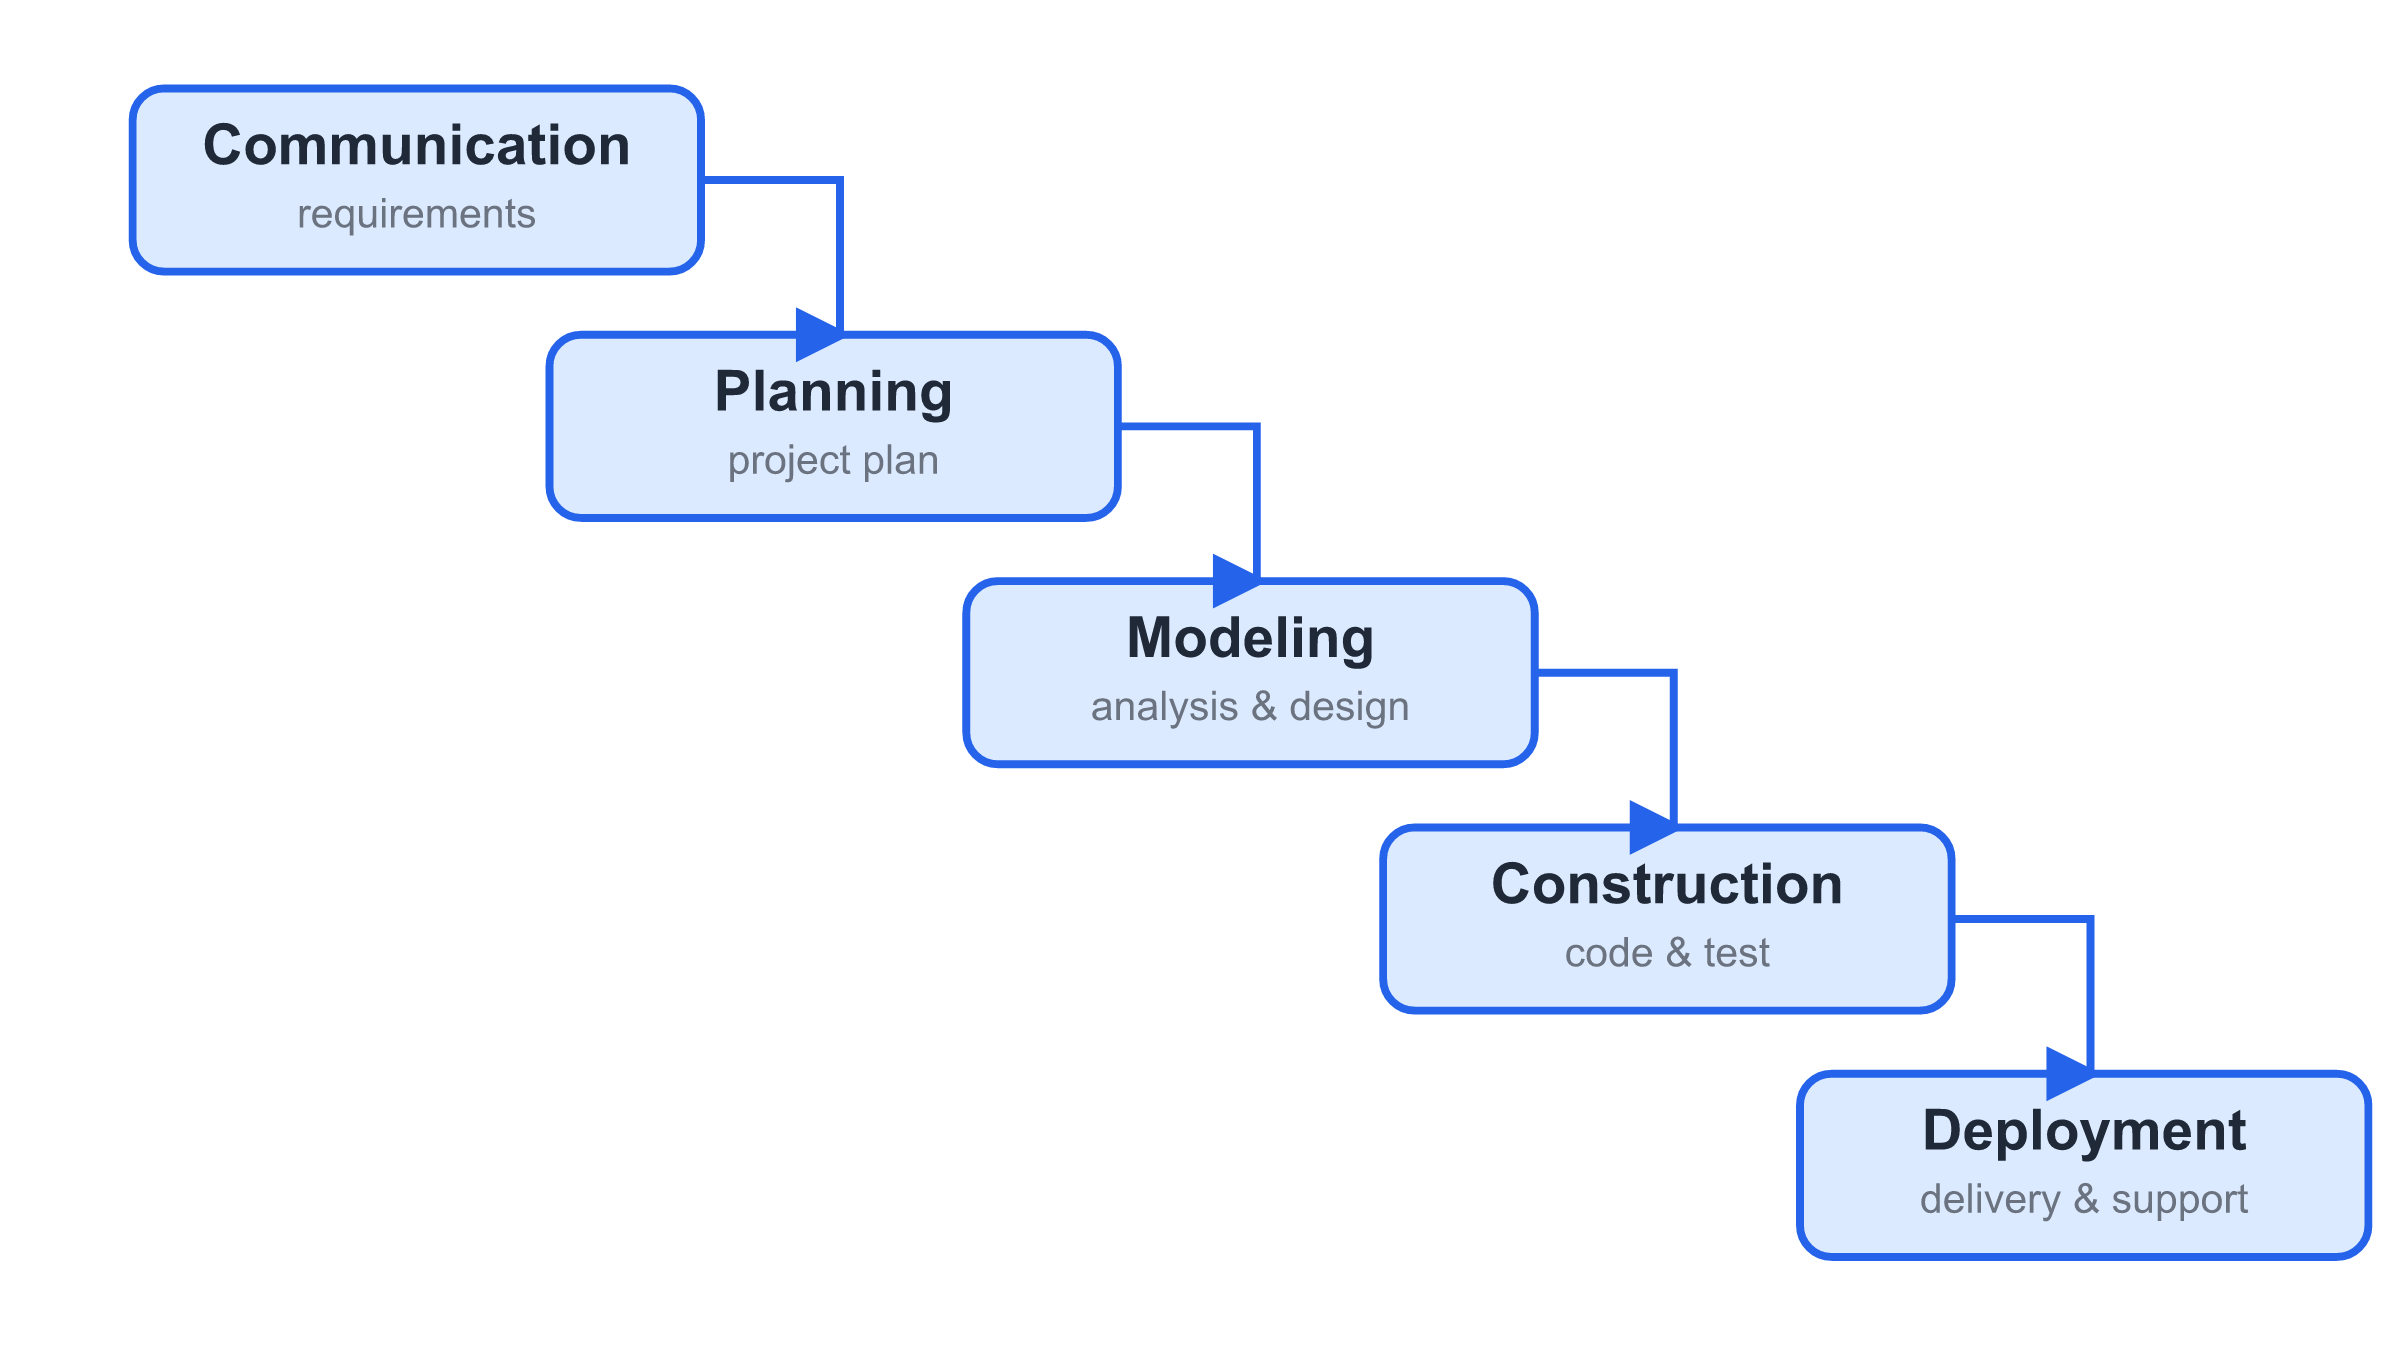
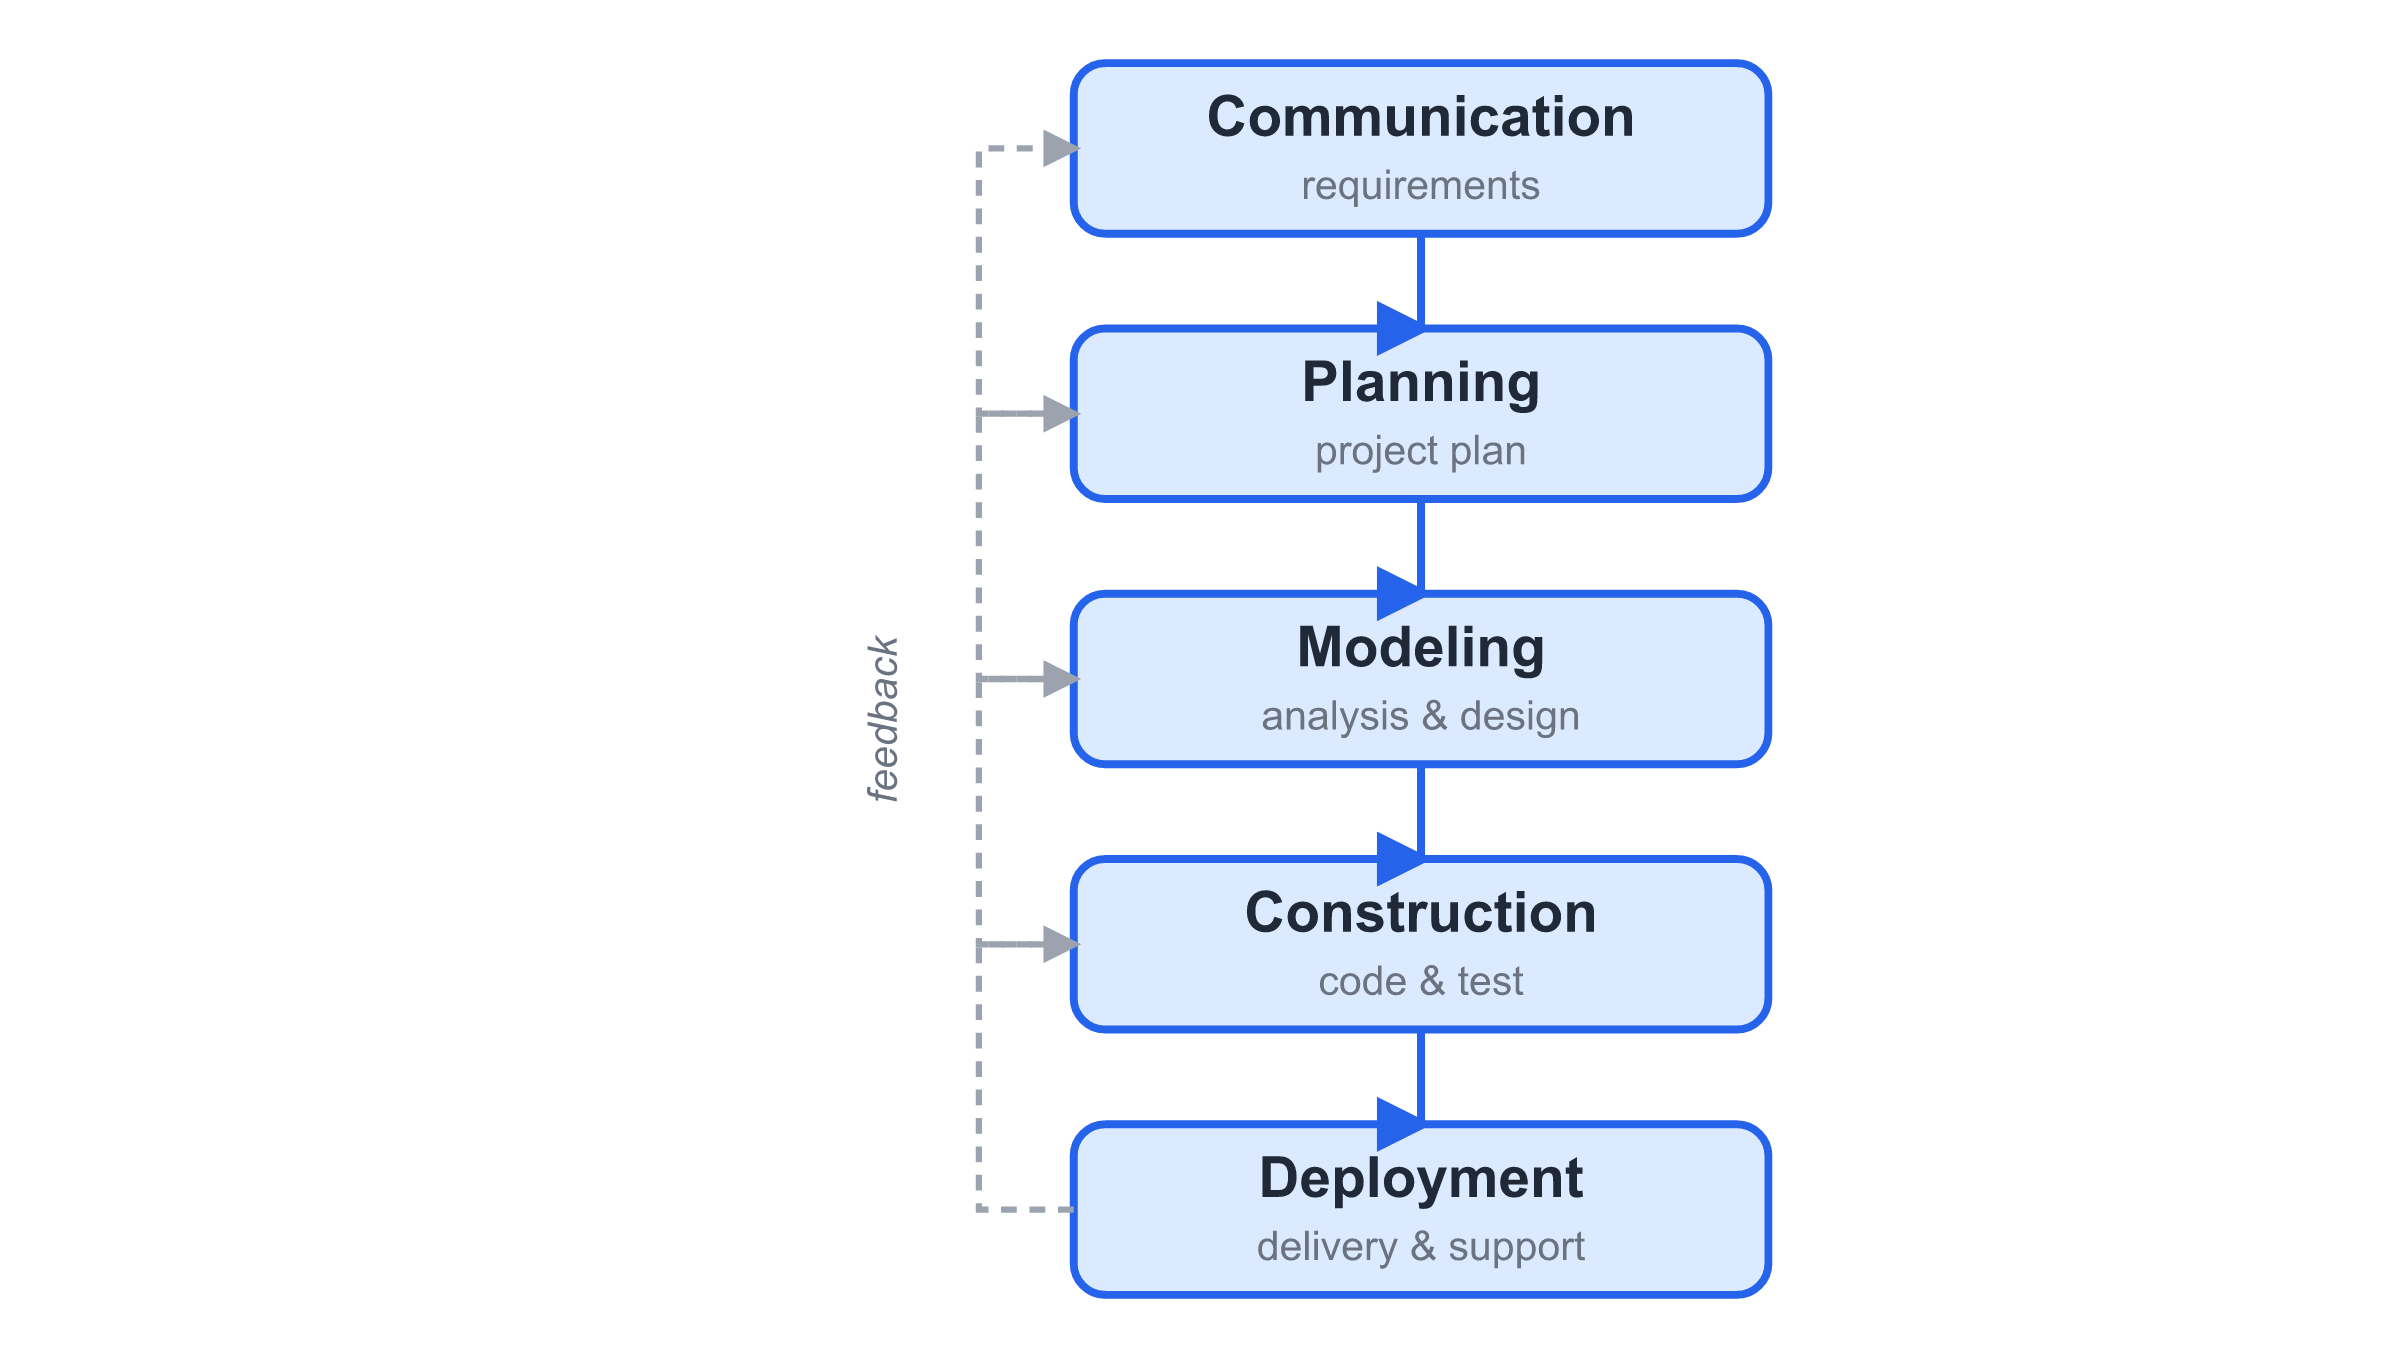
Fix Fig 2-1: vertical waterfall with downward arrows and feedback loops

Changed region(s): [[0.0312, 0.0309, 1.0, 0.9588]]

diff --git a/manuscript/ch02.md b/manuscript/ch02.md
@@ -124,8 +124,9 @@ next begins.
 
 ![The waterfall model: five sequential phases](../figures/ch02-fig2-1-waterfall.png){width=14cm}
 
-*Fig. 2-1. The waterfall model. Each phase completes — and is signed off —
-before the next begins.*
+*Fig. 2-1. The waterfall model. Work flows downward through sequential
+phases; dashed arrows on the left show the feedback loops that send
+problems back to an earlier phase.*
 
 Its strengths are real: it is simple to explain, documentation-driven (every
 phase produces documents), and gives milestones that managers love. It suits
